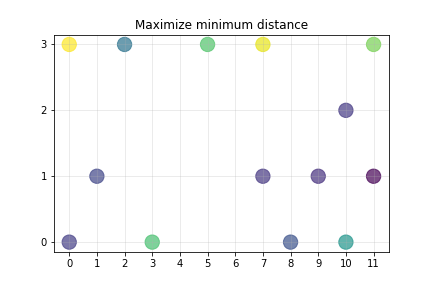
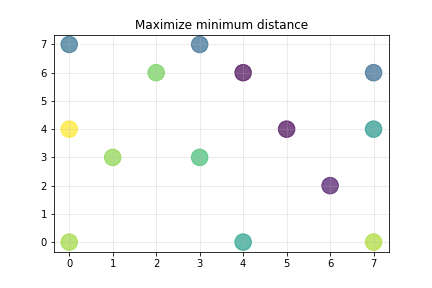
Add files via upload

diff --git a/SeatingPlan.py b/SeatingPlan.py
@@ -10,8 +10,8 @@ Author: Manish Jha
 
 
 #### user defined
-nrows = 4 #number of rows
-ncols = 12 #number of seats per rows
+nrows = 8 #number of rows
+ncols = 8 #number of seats per rows
 nseats = 14 #number of students 
 
 ################
@@ -22,10 +22,6 @@ coords = [(x,y) for x in range(0,ncols) for y in range(0,nrows)]
 ## find distances
 from itertools import combinations
 from scipy.spatial import distance
-
-mindist = 0 ## a random small number
-sumdist = 0 ## a random small number
-minsumdist = 0 ## a random small number
 
 ### total number of combinations we need to run
 from math import factorial
@@ -41,6 +37,8 @@ if totalcombs > 1000000:
     allcombs = [x for x in allcombs if len(set(x)) == nseats] #keep unique
     print("Got ", len(allcombs)/1000, "k random sample")
 
+mindist = 0 ## a random small number
+sumdist = 0 ## a random small number
 counter = 0
 for combs in allcombs: #combination of nseats   
 
@@ -56,27 +54,21 @@ for combs in allcombs: #combination of nseats
         
         opoints = combs.copy()
         opoints.remove(coord) ## otherpoints for distance
-        dists.extend([distance.euclidean(coord, opoint) for opoint in opoints])
-        
-    if min(dists) > mindist or (min(dists) == mindist and sum(dists) > minsumdist): ## maximize the minimum distance, also reduce average distance for minimum
+        dists.append(min([distance.euclidean(coord, opoint) for opoint in opoints])) ## we care about minimum distance only
+    
+    if min(dists) > mindist or (min(dists) == mindist and sum(dists) > sumdist): ## maximize the minimum distance, also maximize the average
         mindistcomb = combs
         mindist = min(dists)
-        minsumdist = sum(dists)
-        print("min and avg distance", mindist, minsumdist)
-        
-    if sum(dists) > sumdist: ## maximize the sum of distance
-        sumdistcomb = combs
         sumdist = sum(dists)
+        print("min and avg min distance", mindist, sumdist/nseats)
         
         
         
 ## print best results
 print("Combination that maximize minimum distance: ", mindistcomb)
 print(".. with minimum distance: ", mindist)
-print(".. and average distance: ", minsumdist)
-print("\n")
-print("Combination that maximize average distance: ", sumdistcomb)
-print(".. with average distance: ", sumdist/nseats)
+print(".. and average min distance: ", sumdist/nseats)
+
 
 ## plot best results
 import numpy as np
@@ -93,15 +85,6 @@ plt.grid(alpha=0.3)
 plt.savefig('maxmin.png')
 plt.show()
 
-x = [a_tuple[0] for a_tuple in sumdistcomb]
-y = [a_tuple[1] for a_tuple in sumdistcomb]
-plt.scatter(x, y, s=nrows*ncols*60/nseats, c=colors, alpha=0.7)
-plt.title("Maximize average distance")
-plt.xticks(np.arange(min(x), max(x)+1, 1.0))
-plt.yticks(np.arange(min(y), max(y)+1, 1.0))
-plt.grid(alpha=0.3)
-plt.savefig('maxavg.png')
-plt.show()
 
 
 
